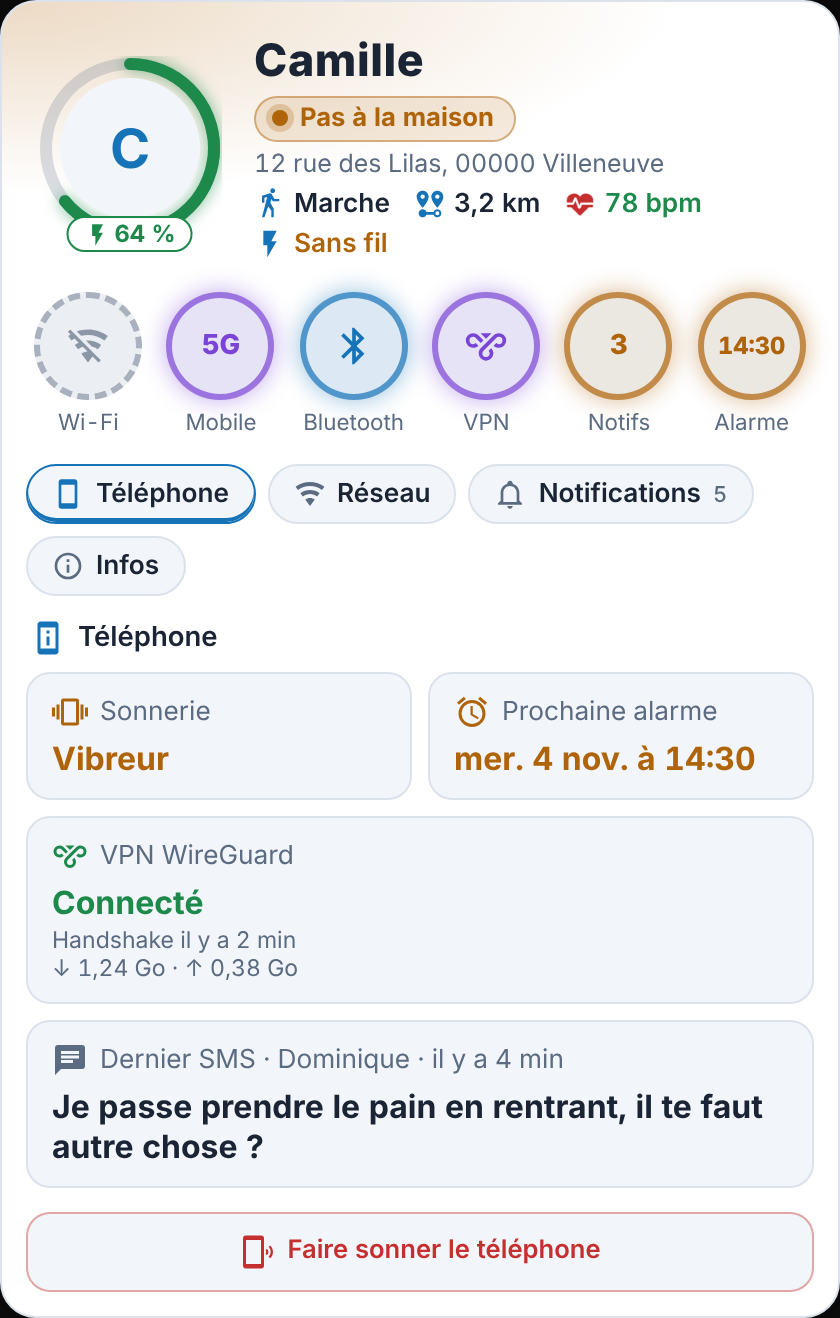
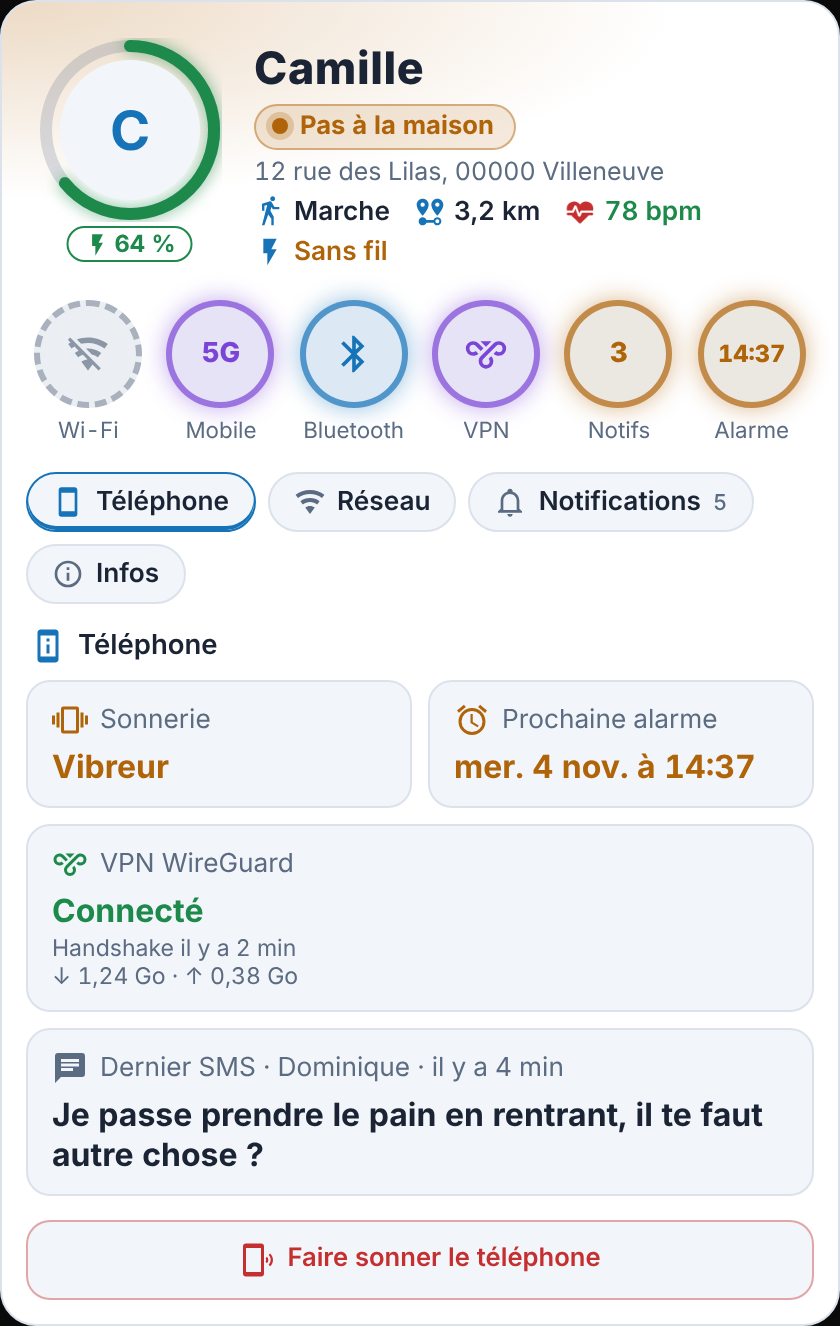
fix(web): pourcentage de batterie sous l'anneau, sans le chevaucher (1.1.0-beta.2)
Claude-Session: https://claude.ai/code/session_01CSixJnFf4qBMac7uTfNvnW

diff --git a/tracker-card.js b/tracker-card.js
@@ -12,7 +12,7 @@
  * Toutes les entités du téléphone peuvent être indiquées à la main sous « phone: ».
  */
 
-const CARD_VERSION = "1.1.0-beta.1";
+const CARD_VERSION = "1.1.0-beta.2";
 
 const define = (name, cls) => { if (!customElements.get(name)) customElements.define(name, cls); };
 const esc = (v) => String(v ?? "").replace(/[&<>"']/g, (c) => ({ "&": "&amp;", "<": "&lt;", ">": "&gt;", '"': "&quot;", "'": "&#39;" }[c]));
@@ -53,12 +53,12 @@ header { display: flex; align-items: center; justify-content: space-between; gap
 .sub { font-size: .78rem; color: var(--med-muted); overflow: hidden; text-overflow: ellipsis; white-space: nowrap; }
 .sub b { font-weight: 600; } .sub b.home { color: var(--med-down); } .sub b.away { color: var(--pc-warn); }
 .tk-side { display: flex; align-items: center; gap: 6px; flex: none; }
-.tk-hero { --zc: var(--med-muted); position: relative; display: flex; align-items: center; gap: 16px; padding: 18px 18px 12px;
+.tk-hero { --zc: var(--med-muted); position: relative; display: flex; align-items: flex-start; gap: 16px; padding: 18px 18px 12px;
   background: radial-gradient(130% 110% at 0% 0%, color-mix(in srgb, var(--zc) 24%, transparent), transparent 62%); }
 .tk-hero.home { --zc: var(--med-down); } .tk-hero.away { --zc: var(--pc-warn); }
 .tk-top { position: absolute; top: 10px; right: 14px; display: flex; gap: 6px; align-items: center; font-size: .7rem; font-weight: 600; letter-spacing: 1.5px; text-transform: uppercase; color: var(--med-muted); }
 .tk-top small { letter-spacing: 0; text-transform: none; border: 1px solid var(--med-line); border-radius: 999px; padding: 1px 8px; }
-.tk-ring { position: relative; width: 92px; height: 92px; flex: none; cursor: pointer; }
+.tk-ring { position: relative; width: 92px; height: 92px; flex: none; cursor: pointer; margin-bottom: 14px; }
 .tk-ring > svg { position: absolute; inset: 0; transform: rotate(-90deg); }
 .tk-ring circle { fill: none; stroke-width: 6; }
 .tk-ring .bg { stroke: color-mix(in srgb, var(--med-muted) 22%, transparent); }
@@ -67,10 +67,10 @@ header { display: flex; align-items: center; justify-content: space-between; gap
 .tk-face { position: absolute; inset: 11px; border-radius: 50%; overflow: hidden; display: flex; align-items: center; justify-content: center;
   background: var(--med-surface); font-size: 1.7rem; font-weight: 700; color: var(--med-accent, var(--med-blue)); }
 .tk-face img { width: 100%; height: 100%; object-fit: cover; }
-.tk-bat { position: absolute; left: 50%; bottom: -6px; transform: translateX(-50%); display: inline-flex; align-items: center; gap: 2px; white-space: nowrap;
+.tk-bat { position: absolute; left: 50%; bottom: -20px; transform: translateX(-50%); display: inline-flex; align-items: center; gap: 2px; white-space: nowrap;
   padding: 1px 8px; border-radius: 999px; background: var(--med-bg); border: 1px solid var(--bc, var(--med-line)); color: var(--bc, var(--med-text)); font-size: .74rem; font-weight: 700; }
 .tk-bat ha-icon { --mdc-icon-size: 13px; width: 13px; height: 13px; flex: none; display: inline-flex; }
-.tk-id { min-width: 0; flex: 1; display: grid; gap: 4px; }
+.tk-id { min-width: 0; flex: 1; display: grid; gap: 4px; padding-top: 4px; }
 .tk-name { font-size: 1.4rem; font-weight: 800; letter-spacing: .3px; line-height: 1.1; overflow: hidden; text-overflow: ellipsis; white-space: nowrap; }
 .tk-zone { justify-self: start; display: inline-flex; align-items: center; gap: 6px; padding: 3px 10px 3px 8px; border-radius: 999px; font-size: .8rem; font-weight: 700;
   color: var(--zc); background: color-mix(in srgb, var(--zc) 14%, transparent); border: 1px solid color-mix(in srgb, var(--zc) 45%, transparent); }

diff --git a/.github/release-notes/v1.1.0-beta.2.md b/.github/release-notes/v1.1.0-beta.2.md
@@ -1,0 +1,5 @@
+## Correction
+
+- Le pourcentage de batterie passe juste sous l'anneau, au lieu de le chevaucher : l'anneau reste entièrement visible.
+
+Retours et bugs : [Issues GitHub](https://github.com/Marlboro62/tracker/issues).
